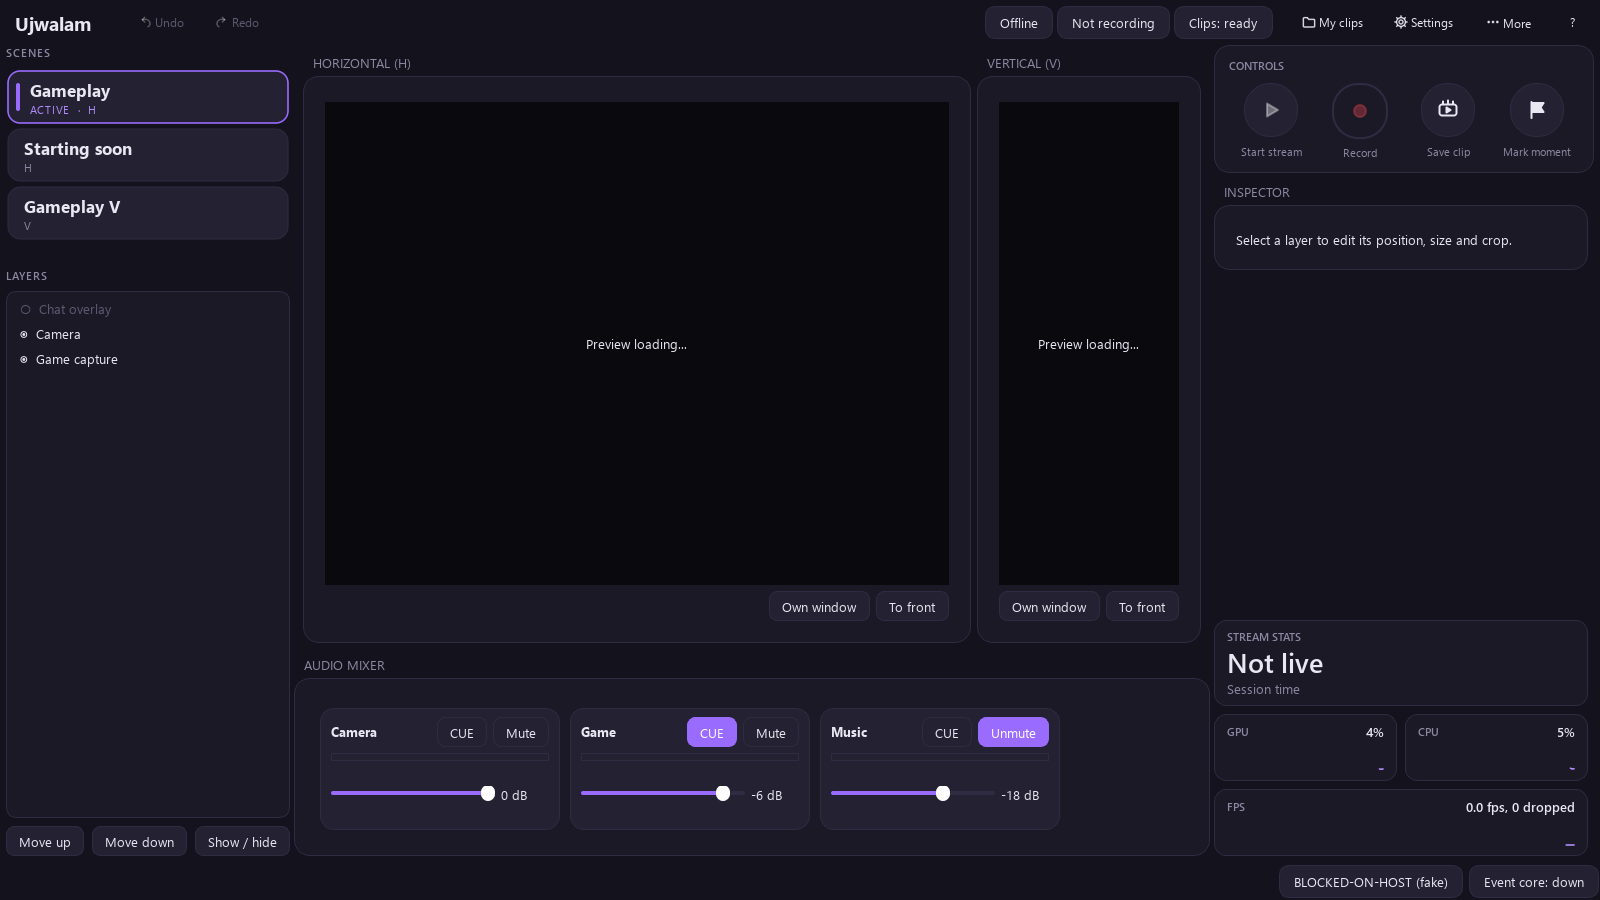
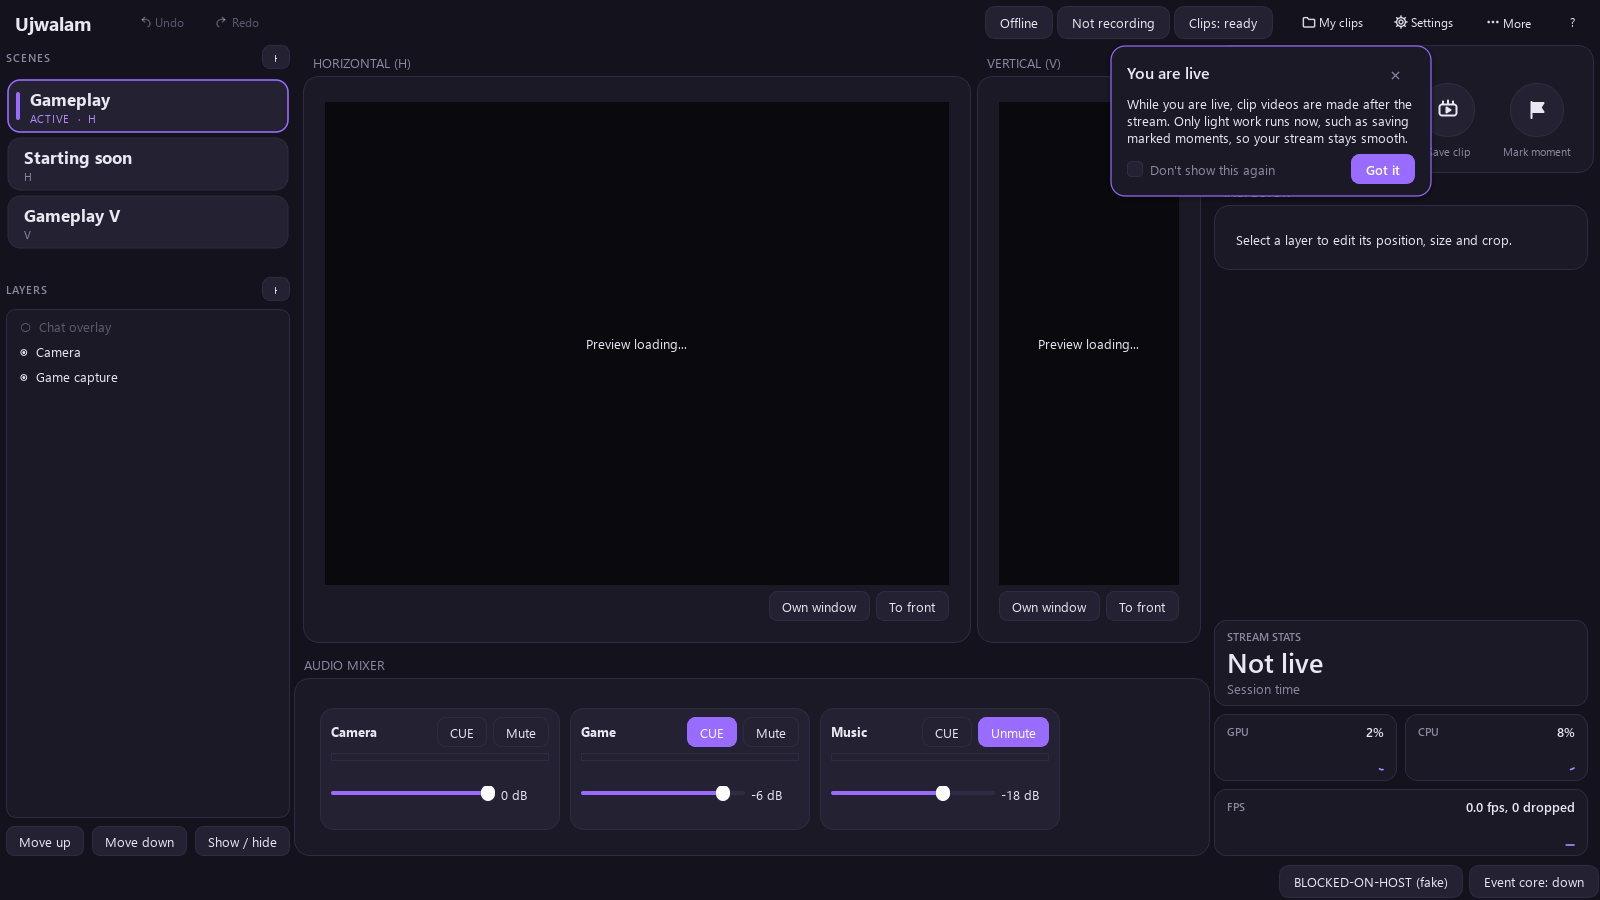
guide: real D292 anchors, evidence, how-to, shots

diff --git a/app/studio/src/main_window.cpp b/app/studio/src/main_window.cpp
@@ -433,6 +433,8 @@ MainWindow::MainWindow(ApiClient *api, QWidget *parent) : QMainWindow(parent), a
 		mixW = mixW->parentWidget();
 	guide_->anchor(QStringLiteral("scenes"), {sceneList_});
 	guide_->anchor(QStringLiteral("layers"), {layerList_});
+	guide_->anchor(QStringLiteral("sceneAdd"), {addSceneBtn_});
+	guide_->anchor(QStringLiteral("layerAdd"), {addLayerBtn_});
 	guide_->anchor(QStringLiteral("previewH"), {slots_.value(0) ? slots_.value(0)->parentWidget() : nullptr});
 	guide_->anchor(QStringLiteral("previewV"), {slots_.value(1) ? slots_.value(1)->parentWidget() : nullptr});
 	guide_->anchor(QStringLiteral("look"), {look_});

diff --git a/app/studio/src/main.cpp b/app/studio/src/main.cpp
@@ -99,6 +99,7 @@ int main(int argc, char **argv)
 								w->layout()->activate();
 						win.layout()->activate();
 					}
+					win.grab(); // the first picture lays the never-shown window out; the cards are then placed on real sizes
 					win.refreshGuide(); // tips, tour and help cards re-placed on the laid-out window
 					o.insert(QStringLiteral("shot"), win.grab().save(shot, "PNG"));
 					if (QWidget *sw = win.settingsWindow()) { // an open Settings window gets its own picture

diff --git a/docs/evidence/2026-11-08-guide.md b/docs/evidence/2026-11-08-guide.md
@@ -1,0 +1,32 @@
+# Guide: coach marks, welcome tour, hints, help panel (D294 proposed)
+
+Date: 2026-11-08. Branch ui/guide, rebased onto claude/alpha0-d1 (layer and scene menus, D292).
+
+## What was built
+
+- Welcome tour (16 steps, 15 shown in the headless window because the Look panel is hidden there) plus two focused tours (clips, 6 steps; posting, 4 steps). Text is data in `data/guide/tour.json`, validated by `data/guide/guide.schema.json`.
+- Six "behind the scenes" hints in `data/guide/hints.json`. Each shows on first occurrence, hides after about 8 s unless hovered, and has dismiss and "Don't show this again".
+- Floating "?" help panel: "How clips are made" and "Posting your clips", each with "Show me", plus "Replay the welcome tour".
+- Settings > Help & tips: tips on/off, reset all "don't show again", replay the tour. Stored as `ui.guide = {tips, dismissed, tourDone}` in settings.json.
+- Anchors added for the D292 buttons: `sceneAdd`, `layerAdd` (the + buttons).
+- Nothing takes focus: all cards are child widgets of the main window. Tests run headless.
+
+## Commands and results
+
+- `node --test --test-concurrency=2 tests/studio-qt-shell.test.mjs tests/studio-ui-server.test.mjs tests/guide.test.mjs tests/user-settings-match-gate.test.mjs tests/studio-tasks.test.mjs`: tests 97, pass 97, fail 0, skipped 0 (run after the rebase, before the final shot-only change in main.cpp).
+- `node --test tests/guide.test.mjs`: 14 of 14 pass (re-run after final edits).
+- Re-run after the last edit: 3 selected studio-qt-shell tests pass.
+- `node tools/lint.mjs`: 0 findings.
+- Hook quick CI passes on each commit.
+
+## Pictures (`docs/evidence/2026-11-08-guide/`)
+
+tour-step-scenes, tour-step-save-clip, hint-going-live, hint-clip-run, help-panel, settings-help-tips (and its -settings picture). Taken headless and offscreen; nothing was shown on screen.
+
+## UNVERIFIED
+
+- Appearance and timing on a real display with the native preview windows (the shots use placeholder previews).
+- In the scenes step picture the card overlaps the scenes list it points at, because the previews take the room on the right. Cosmetic; a "side" hint in tour.json did not change it and was not kept.
+- Hint triggers against a real recording stop, real go-live and a real clip run: tested through probe actions and the status snapshot, not on a live stream.
+- The match-skipped hint depends on the clipper's progress note text "match N: skipped".
+- Colours go through `guidecol::` in coach.cpp; the swap to the themes branch's `theme::color` is not done.

diff --git a/docs/how-to.md b/docs/how-to.md
@@ -92,6 +92,14 @@ grey and say "Not while live"); the project file is saved at once.
 
 Show / Hide, Move and Paste look still work while live; they ask for "yes, on air" as before.
 
+## 6b. Help, tips and the welcome tour
+
+- The round **?** button at the top of the window opens the help panel. It has two sections, "How clips are made" and "Posting your clips". Each has a **Show me** button that points at the real controls. The panel also says what posting does today: nothing is sent unless you type your yes.
+- **Replay the welcome tour** is at the bottom of the help panel and in Settings > Help & tips.
+- The first time you open the studio, a short tour walks through the window. Skip it any time. Tick "Don't show this again" to keep it away.
+- Small tips appear the first time something happens (a recording stops, a clip run starts, you go live). A tip hides itself after about 8 seconds; hover it to keep it. Use "Don't show this again" on a tip to silence that one.
+- Settings > Help & tips: switch tips off, reset every "Don't show this again", or replay the tour. These choices are saved in settings.json and can be changed while live.
+
 ## 7. Recording and replay
 
 - **Record** on the control page writes an `.mkv` file (it survives a crash). Files go to the host data folder
